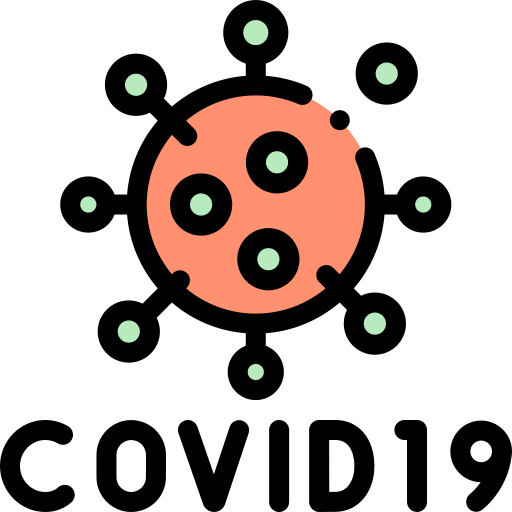
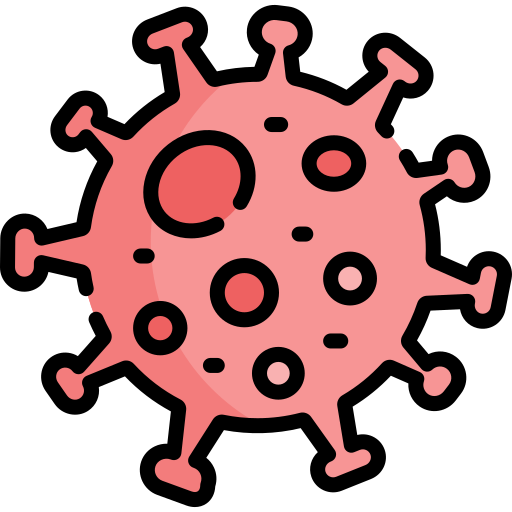
changed styling of homepage

diff --git a/src/components/Sidenav.jsx b/src/components/Sidenav.jsx
@@ -70,18 +70,29 @@ const Sidenav = (props) => {
         <div>
             <Header />
             <div className="row">
-                <div className="col s12 m4 l2">
+                <div className="col s12 m2">
                     <div className="card z-depth-3">
                         <div className="center">
-                        <h6> Updated: {new Date(lastUpdate).toDateString()} </h6>
-                            <h3 className="red-text"><CountUp start={0} end={data.summary.total} duration={2} separator="," /> </h3>
-                            <h6>Total</h6>
-                            <h4>  <CountUp start={0} end={active} duration={2} separator="," /> </h4>
-                            <h6>Active</h6>
-                            <h4>  <CountUp start={0} end={data.summary.deaths} duration={2} separator="," /> </h4>
-                            <h6>Deaths</h6>
-                            <h4>  <CountUp start={0} end={data.summary.discharged} duration={2} separator="," /> </h4>
-                            <h6>Recovered</h6>
+                            <div className="white-text">
+                                <h4>INDIA</h4>    
+                                <h6> Updated: {new Date(lastUpdate).toDateString()} </h6>
+                            </div>
+                            <div style={{color: "rgb(111, 173, 235)"}}>
+                                <h3><CountUp start={0} end={data.summary.total} duration={2} separator="," /> </h3>
+                                <h5>Total</h5>
+                            </div>
+                            <div style={{color: "#F99D2E"}}>
+                                <h4>  <CountUp start={0} end={active} duration={2} separator="," /> </h4>
+                                <h5>Active</h5>
+                            </div>
+                            <div style={{color: "rgb(235, 111, 111)"}}>
+                                <h4>  <CountUp start={0} end={data.summary.deaths} duration={2} separator="," /> </h4>
+                                <h5>Deaths</h5>
+                            </div>
+                            <div style={{color: "#65DD9B"}}>
+                                <h4>  <CountUp start={0} end={data.summary.discharged} duration={2} separator="," /> </h4>
+                                <h5>Recovered</h5>
+                            </div>
                         </div>
                     </div>
                 </div>
@@ -89,15 +100,13 @@ const Sidenav = (props) => {
                 <div className="col l1"></div> 
                 
                 <div className="col s12 m8">
-                    <label htmlFor="state"></label>
                     <input 
                         type="text" 
-                        id="state" 
                         placeholder="Search for the state.." 
                         value={stateName} onChange={e => setStateName(e.target.value)} 
                     />
 
-                    <table className="striped responsive-table">
+                    <table className="striped highlight responsive-table">
                         <thead>
                             <tr>
                                 <th>#</th>
@@ -113,8 +122,6 @@ const Sidenav = (props) => {
                             { stateName === '' ? stateList : filteredStateList }  
                         </tbody>
                     </table>
-
-
                 </div>
             </div>
         </div>

diff --git a/src/components/Header.jsx b/src/components/Header.jsx
@@ -1,13 +1,14 @@
 import React from 'react'
-import virus from '../img/icon-infected.png'
+import virus from '../img/bacteria.png'
 // import styles from './Header.module.css'
 
 function Header() {
     return (
-        <nav>
-            <div className="nav-wrapper container">
-                <a href="/" className="brand-logo">
-                    <img src={virus} alt="virus" /></a>
+        <nav style={{backgroundColor: "#49609e"}}>
+            <div className="nav-wrapper container-fluid">
+                <a href="/" className="brand-logo center">
+                    <img src={virus} alt="virus" width="50px" height="50px" />COVID-19
+                </a>
                 {/* <ul id="nav-mobile" class="right hide-on-med-and-down">
                     <li><a href="sass.html">Sass</a></li>
                     <li><a href="badges.html">Components</a></li>

diff --git a/src/css/Sidenav.css b/src/css/Sidenav.css
@@ -3,15 +3,37 @@
     left: 0;
     border-radius: 10px;
     border: 1px solid #dddddd;
-    background-color: lightgray;
+    background-color: #49609e;
   }
 
-table {
-  /* background-color: rgb(230, 173, 173); */
-  /* background-color: #EDF2F7; */
-  border-radius: 10px;
+table > thead > tr > th {
+  background-color: #49609e;
+  color: white;
 }
 
 table tr td:hover {
   cursor: pointer;
+}
+
+table.striped > tbody > tr:nth-child(even){
+  background-color: #8aa0df;
+}
+
+.displayStates {
+  border-radius: 10px;
+  /* border: 1px solid #dddddd; */
+  background-color: #8aa0df;
+  margin-top: 1rem;
+}
+
+.search-field {
+  background-color: #49609e;
+  width: fit-content;
+  margin: 1rem 0;
+}
+
+input {
+  margin: 0;
+  border: 1px solid gray;
+
 }

diff --git a/src/components/Graph.jsx b/src/components/Graph.jsx
@@ -12,7 +12,7 @@ const Graph = ({total, activeCases, discharged, deaths}) => {
                         datasets: [{
                             label: 'People',
                             fill: true,
-                            backgroundColor: ['rgb(207, 59, 207)', 'rgb(127, 125, 224)', 'rgb(81, 209, 64)', 'rgb(247, 45, 45)'],
+                            backgroundColor: ['rgb(111, 173, 235)', '#F99D2E', '#65DD9B', 'rgb(235, 111, 111)'],
                             data: [total, activeCases, discharged, deaths ],
                         }]
                     }}

diff --git a/src/css/Cards.module.css b/src/css/Cards.module.css
@@ -28,22 +28,22 @@
 }
 
 .total {
-    background-color: rgb(207, 59, 207);
+    background-color: rgb(111, 173, 235);
     border-radius: 10px;
 }
 
 .infected {
-    background-color: rgb(127, 125, 224);
+    background-color: #F99D2E;
     border-radius: 10px;
 }
 
 .discharged {
-    background-color: rgba(81, 209, 64);
+    background-color: #65DD9B;
     border-radius: 10px;
 }
 
 .deaths {
-    background-color: rgba(247, 45, 45);
+    background-color: rgb(235, 111, 111);
     border-radius: 10px;
 }
 
